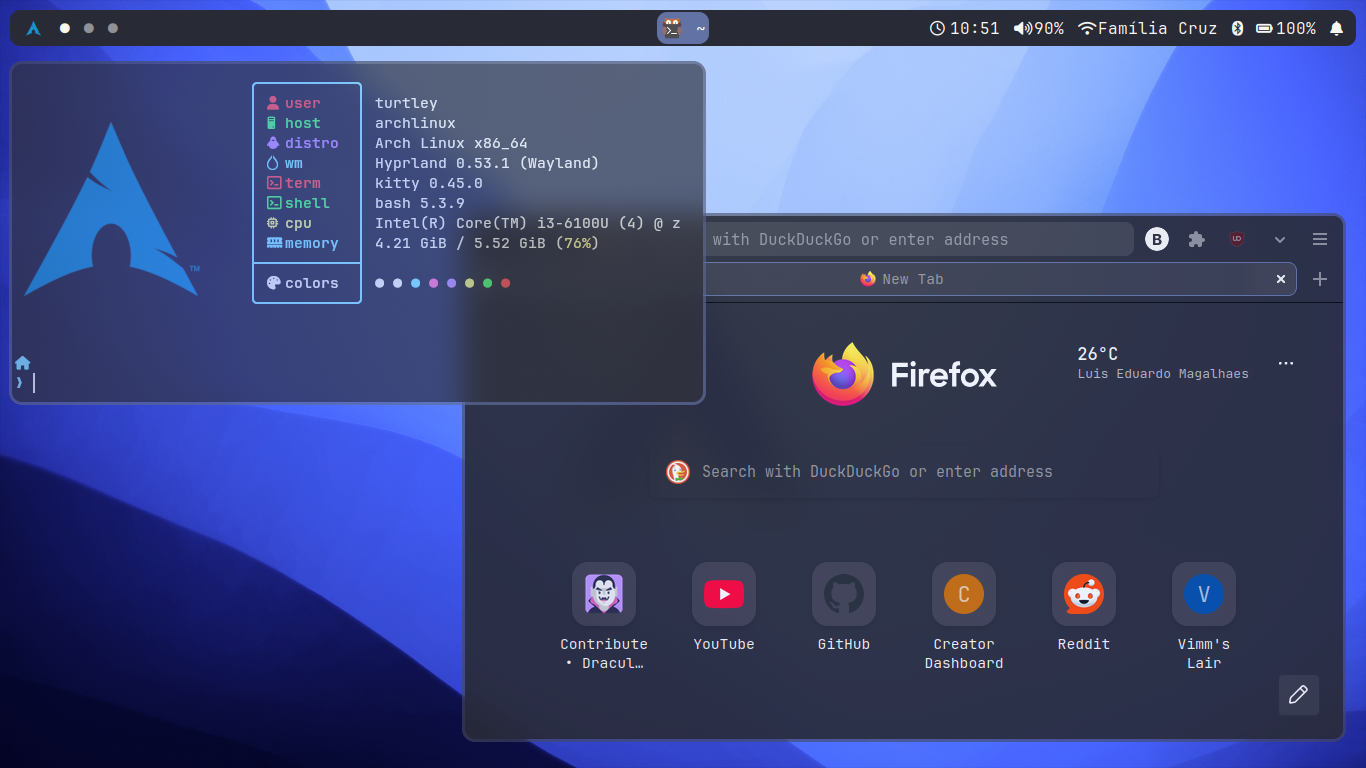
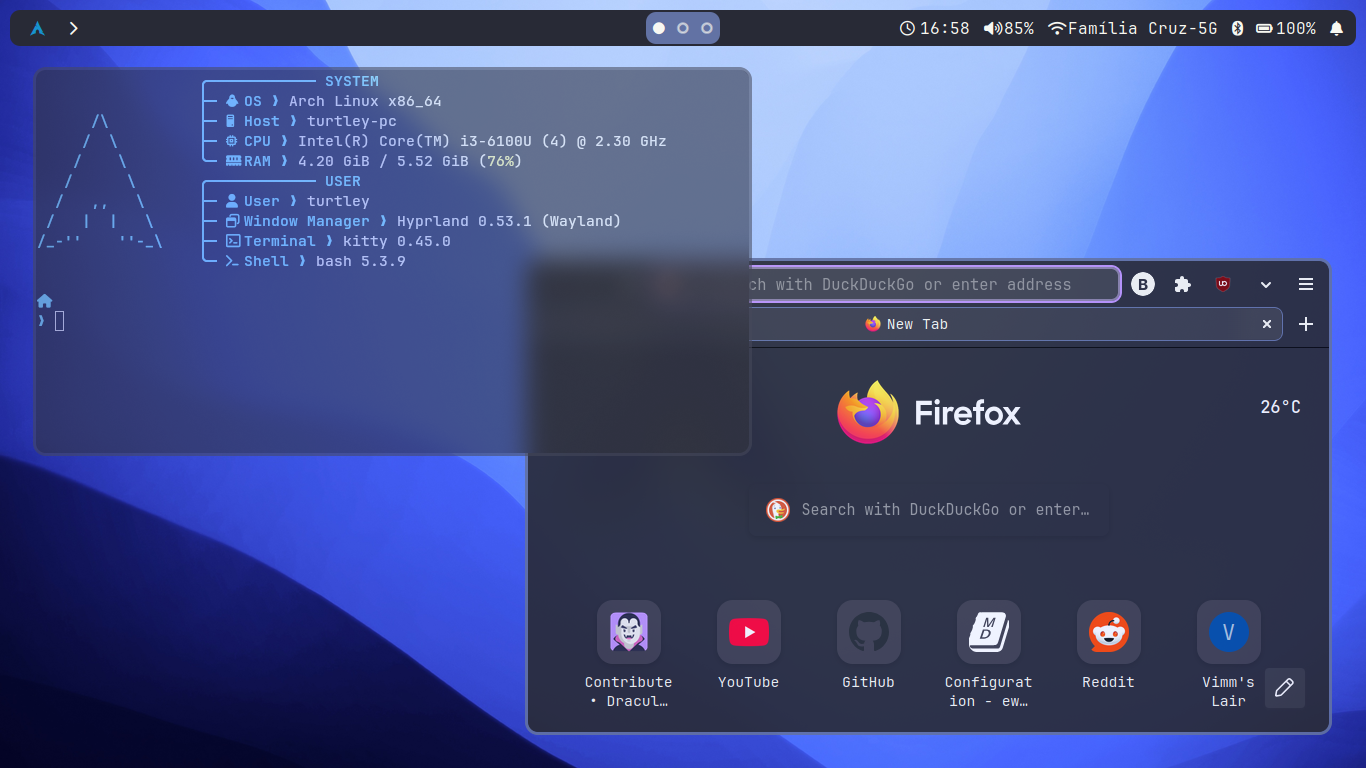
Updated pictures

diff --git a/README.md b/README.md
@@ -12,5 +12,8 @@ Includes configs for the Hypr ecosystem, Kitty, Rofi, Waybar and Fastfetch.
 ### Rofi
 ![Rofi](pictures/rofi.png)
 
+### Fastfetch
+![Fastfetch](pictures/fastfetch.png)
+
 ### SDDM
 ![SDDM](pictures/sddm.png)
